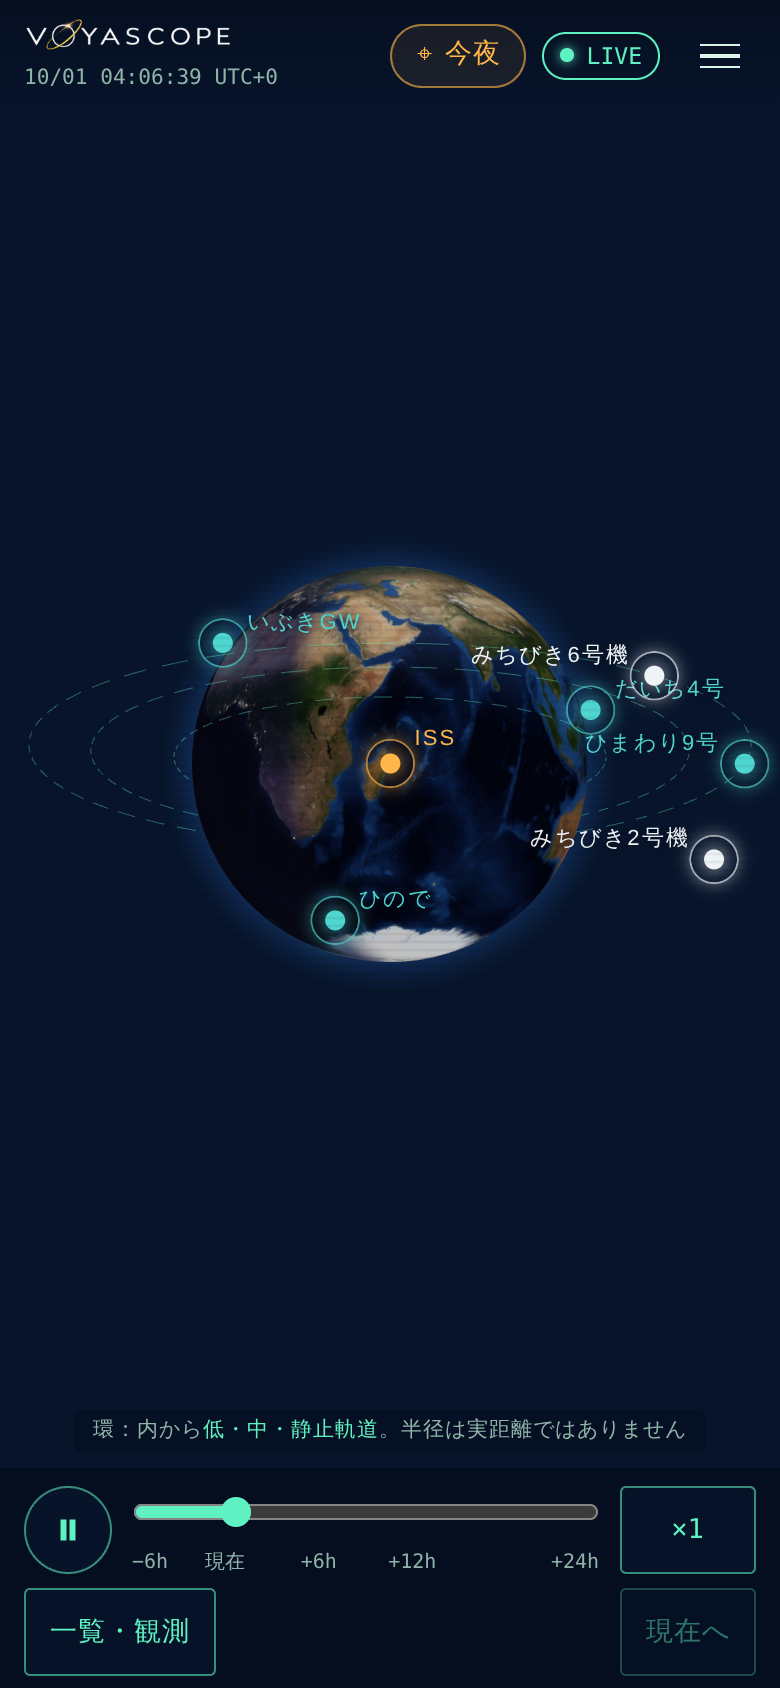
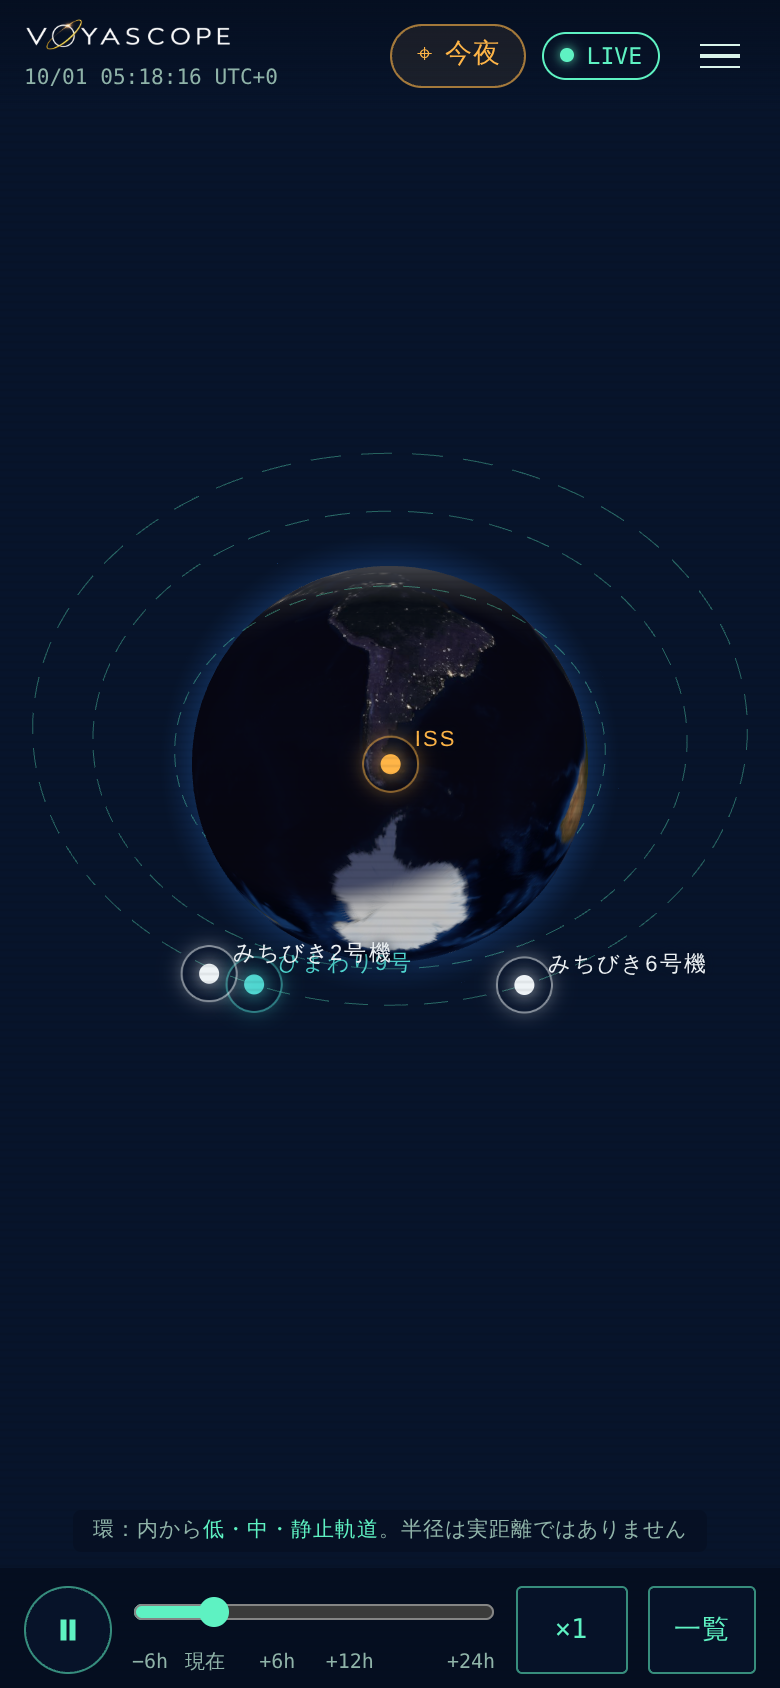
スマホ：下のバーを1行に（一時停止・スライダー・速さ・一覧）
- 「現在へ」は上の LIVE 表示が兼ねる。ずれているときは「↺ +02:03:00」と出て、押すと現在に戻る（押せる範囲44px）
- 「追尾」は詳細の名前の横（× の隣）へ。種類の札を名前の上に置き、名前・英名・NORAD を途中で折らない
- 「一覧・観測」→「一覧」。幅375未満は目盛りを「現在」「+24h」だけに
- 下のバー 110px→60px。幅390×844で操作部と文字は 22%→16%
- PC（幅1440・1024）は位置と大きさが変更前と同じ。LIVE 表示は button になったが見た目は同じ（ずらしているときは PC でも押すと現在に戻る）

Claude-Session: https://claude.ai/code/session_01TJoGGS11jrJK8emrXwBTBf

diff --git a/web/css/style.css b/web/css/style.css
@@ -281,6 +281,8 @@ body { overflow: hidden; }
   color: var(--amber);
   white-space: nowrap;
 }
+.live-badge { background: none; font-family: var(--font-mono); line-height: inherit; }
+.live-badge[data-live="false"] { cursor: pointer; } /* 時刻をずらしているときは、押すと現在に戻る */
 .live-badge[data-live="true"] { border-color: var(--mint); color: var(--mint); }
 .live-badge[data-paused="true"]::after { content: " 停止中"; }
 .live-badge[data-live="true"]::before {
@@ -417,6 +419,18 @@ body { overflow: hidden; }
 .panel-title { font-size: 1.35rem; font-weight: 700; line-height: 1.2; }
 .panel-en { font-size: 0.8rem; font-weight: 400; color: var(--text-dim); letter-spacing: 0.05em; }
 .panel-ja { font-size: 0.9rem; color: var(--mint); }
+.panel-actions { display: flex; gap: 8px; flex: none; }
+.follow-mini {
+  width: 34px;
+  height: 34px;
+  border: 1px solid var(--mint-faint);
+  background: transparent;
+  color: var(--mint);
+  font-size: 0.8rem;
+  border-radius: 6px;
+  cursor: pointer;
+}
+.follow-mini[aria-pressed="true"] { background: var(--mint); color: var(--navy-800); }
 .close {
   flex: none;
   width: 34px;
@@ -872,7 +886,11 @@ dialog.card::backdrop { background: rgba(3, 8, 18, 0.65); backdrop-filter: blur(
   .tonight-chip::after { content: ""; position: absolute; inset: -8px -4px; } /* 押せる範囲を44pxに */
   .tonight-chip .chip-full { position: absolute; width: 1px; height: 1px; overflow: hidden; clip: rect(0 0 0 0); white-space: nowrap; }
   .tonight-chip .chip-short { display: inline; }
-  .live-badge[data-paused="true"]::after { content: none; }
+  /* スマホ：上の表示が「現在へ」を兼ねる。ずれているときは ↺ を付け、押せる範囲を44pxに */
+  .live-badge { position: relative; }
+  .live-badge::after, .live-badge[data-paused="true"]::after { content: ""; position: absolute; inset: -10px -4px; }
+  .live-badge[data-live="false"]::before { content: "↺ "; }
+  #now { display: none; }
   .side-panel {
     --sheet-bg: rgb(7, 20, 43); /* 不透明：上に残る名前の裏に本文が透けないように */
     top: auto;
@@ -922,20 +940,25 @@ dialog.card::backdrop { background: rgba(3, 8, 18, 0.65); backdrop-filter: blur(
     border-bottom: 1px solid var(--panel-border);
     align-items: center;
   }
+  /* 名前の行：種類の札は名前の上に小さく。名前・英名・NORAD は途中で折らない */
   .detail-panel .panel-title { font-size: 1.15rem; }
-  .detail-panel .close { width: 44px; height: 44px; }
+  .detail-panel .panel-title .class-chip { display: table; margin: 0 0 4px; font-size: 0.66rem; padding: 1px 6px; }
+  .detail-panel .panel-head > div:first-child { min-width: 0; }
+  .detail-panel .panel-ja > span { display: inline-block; max-width: 100%; white-space: nowrap; overflow: hidden; text-overflow: ellipsis; vertical-align: bottom; }
+  .detail-panel .close, .detail-panel .follow-mini.narrow-only { display: block; width: 44px; height: 44px; }
+  #follow { display: none; } /* スマホの追尾は、詳細の名前の横（◎） */
   .list-panel { display: none; }
   .list-panel.open { display: block; }
   .list-open { display: inline-block; flex: none; white-space: nowrap; }
   .btn { padding: 0.35em 0.6em; font-size: 0.78rem; min-height: 32px; }
   .wide-only { display: none; }
-  /* 下のバーは2段：再生・時間・速さ／一覧・表示・追尾・現在へ */
+  /* 下のバーは1行：再生・時間・速さ・一覧（現在へは上の LIVE、追尾は詳細の名前の横） */
   .bottom-bar {
     padding: 8px 12px calc(env(safe-area-inset-bottom) + 6px);
     background: rgba(5, 14, 31, 0.94);
     display: grid;
-    grid-template-columns: auto 1fr auto;
-    grid-template-areas: "play slider speed" "ctl ctl now";
+    grid-template-columns: auto 1fr auto auto;
+    grid-template-areas: "play slider speed ctl";
     align-items: center;
     gap: 6px 10px;
   }
@@ -953,7 +976,6 @@ dialog.card::backdrop { background: rgba(3, 8, 18, 0.65); backdrop-filter: blur(
   #app[data-live="false"] #now { border-color: var(--amber); color: var(--amber); box-shadow: 0 0 10px var(--amber-dim); }
   .controls-row { grid-area: ctl; gap: 8px; justify-content: flex-start; flex-wrap: nowrap; }
   .controls-row .fam-legend, .controls-row .rings-toggle { display: none; } /* 一覧のタブと、一覧の下の「環」で切り替える */
-  #app:not(.has-selected) #follow { display: none; }
   .footnote { display: none; } /* 軌道データの日時と「このアプリについて」はメニューの中にある */
   .bottom-bar .warning { grid-column: 1 / -1; }
   /* 一覧を詰めて、カードが多く見えるように */
@@ -979,6 +1001,7 @@ dialog.card::backdrop { background: rgba(3, 8, 18, 0.65); backdrop-filter: blur(
   .tonight-chip { padding: 4px 8px; }
   .tonight-chip .pin { display: none; }
   .scale-note { font-size: 0.6rem; }
+  .ticks span:nth-child(1), .ticks span:nth-child(4), .ticks span:nth-child(5) { display: none; } /* 現在と +24h だけ */
 }
 
 @media (prefers-reduced-motion: reduce) {

diff --git a/web/js/main.js b/web/js/main.js
@@ -386,6 +386,7 @@ function startApp({ craft, land, prefectures }) {
       status: c.status,
       orbitMeta: `取得 ${dateTimeShortJa(new Date(c.orbit.fetched_at))}・基準時刻 ${dateTimeShortJa(new Date(c.orbit.epoch))}（CelesTrak）`,
     });
+    detailBody.querySelector("[data-follow]")?.setAttribute("aria-pressed", String(follow));
     updateDetailLive(true);
   };
 
@@ -410,6 +411,7 @@ function startApp({ craft, land, prefectures }) {
   }
   detailBody.addEventListener("click", (e) => {
     if (e.target.closest("[data-close]")) return closeDetail();
+    if (e.target.closest("[data-follow]")) return setFollow(!follow);
     const t = e.target.closest("[data-tab]");
     if (t) {
       tab = t.dataset.tab;
@@ -504,11 +506,14 @@ function startApp({ craft, land, prefectures }) {
     clock.setPlaying(!clock.playing);
     syncControls();
   });
-  $("#now").addEventListener("click", () => {
+  const backToNow = () => {
     clock.live();
     syncControls();
     if (selected) renderDetail();
-  });
+  };
+  $("#now").addEventListener("click", backToNow);
+  // 上の LIVE 表示も、時刻をずらしているときは押すと現在に戻る（スマホではこれが「現在へ」）
+  $("#live-badge").addEventListener("click", () => !clock.isLive() && backToNow());
   for (const b of speedButtons) {
     b.addEventListener("click", () => {
       clock.setSpeed(Number(b.dataset.speed));
@@ -530,6 +535,7 @@ function startApp({ craft, land, prefectures }) {
   function setFollow(on) {
     follow = on && !!selected;
     followBtn.setAttribute("aria-pressed", String(follow));
+    detailBody.querySelector("[data-follow]")?.setAttribute("aria-pressed", String(follow));
   }
   followBtn.addEventListener("click", () => {
     if (!selected && craft[0]) select(craft[0]);
@@ -650,7 +656,8 @@ function startApp({ craft, land, prefectures }) {
       els.badge.dataset.live = String(live);
       app.dataset.live = String(live);
       els.badge.textContent = live ? "LIVE" : durationJa(clock.offset());
-      els.badge.dataset.paused = String(!live && !clock.playing); // 「停止中」は CSS で足す（スマホでは再生ボタンの形で分かるので出さない）
+      els.badge.dataset.paused = String(!live && !clock.playing);
+      els.badge.setAttribute("aria-label", live ? "いまの時刻を表示中" : `現在に戻る（いまは ${els.badge.textContent}）`); // 「停止中」は CSS で足す（スマホでは再生ボタンの形で分かるので出さない）
       if (!dragging) slider.value = String(Math.round(clock.offset() / 60000));
       for (const c of craft) {
         const n = listEl.querySelector(`[data-alt="${c.id}"]`);

diff --git a/web/index.html b/web/index.html
@@ -51,7 +51,7 @@
       <button type="button" id="tonight-chip" class="tonight-chip" hidden></button>
       <div class="clock-block">
         <span id="sim-time" class="mono">--</span>
-        <span id="live-badge" class="live-badge mono" data-live="true">LIVE</span>
+        <button type="button" id="live-badge" class="live-badge mono" data-live="true" aria-label="いまの時刻を表示中">LIVE</button>
         <button type="button" id="menu-open" class="menu-btn" aria-label="メニュー（このアプリについて）"><span></span><span></span><span></span></button>
       </div>
     </header>
@@ -118,7 +118,7 @@
         <button type="button" id="speed-cycle" class="btn mono speed-cycle narrow-only" aria-label="再生の速さ ×1（押すと切り替わる）">×1</button>
       </div>
       <div class="controls-row">
-        <button type="button" id="list-open" class="btn list-open">一覧・観測</button>
+        <button type="button" id="list-open" class="btn list-open">一覧</button>
         <!-- 家族ごとの表示と環（PC）。スマホでは一覧のタブが地球の表示も絞り、環は一覧の下に置く -->
         <div id="fam-legend" class="fam-legend" role="group" aria-label="家族ごとの表示"></div>
         <label class="toggle rings-toggle"><input type="checkbox" id="rings-toggle" checked> 環</label>

diff --git a/web/js/card.js b/web/js/card.js
@@ -249,7 +249,10 @@ export function renderPanel(el, { card, crewData, now, isSample, family, tab = "
         <div class="panel-title"><span class="class-chip" style="--c:${family.color}">${esc(CLASS_LABELS[card.class] ?? "")}</span><span class="amber">${esc(card.name.ja)}</span></div>
         <div class="panel-ja"><span class="panel-en">${esc(card.name.en)}</span>　<span class="k">NORAD ${card.norad_id}</span></div>
       </div>
-      <button type="button" class="close mono" data-close aria-label="詳細を閉じる">×</button>
+      <div class="panel-actions">
+        <button type="button" class="follow-mini narrow-only" data-follow aria-pressed="false" title="カメラがこの機体を追いかけます">追尾</button>
+        <button type="button" class="close mono" data-close aria-label="詳細を閉じる">×</button>
+      </div>
     </header>
     ${
       showBanner

diff --git a/docs/tasks/007-mobile-ui.md b/docs/tasks/007-mobile-ui.md
@@ -83,6 +83,18 @@ PC版は満足度が高い。スマホで触ると、操作の帯が地球を上
 - PC は変えていない：タブは一覧だけ、下のバーのチェックで地球を絞る（位置と大きさも変更前と同じ）
 - 横向きのスマホでは、半分の高さの詳細が低い（136px）。つまみで全部にできるので、今回はこのまま
 
+## 第3弾（2026-10-01、マージ後に実機で触って）
+
+オーナーの感想：「機体の真上に行く」「速さの1ボタン」が特によい。下端の機能を1行にしたい。
+
+- 下のバーを1行に：一時停止・スライダー・速さ・一覧（110px → 60px）
+- 「現在へ」は上の LIVE 表示が兼ねる。時刻をずらしているときは「↺ +02:03:00」になり、押すと現在に戻る（押せる範囲は44px）。PC の「▶ LIVE」はそのまま
+- 「追尾」は詳細の名前の横（× の隣）へ。種類の札は名前の上に小さく置き、名前・英名・NORAD が途中で折れないようにした
+- 「一覧・観測」は「一覧」に（観測は上の「今夜」からも開ける）
+- スライダーが短くなったので、幅375未満では目盛りを「現在」と「+24h」だけにした
+- 幅390×844で、上下の操作部と文字は 185px（22%）→ 135px（16%）
+- PC（幅1440・1024）は位置と大きさが変更前と同じ
+
 ## 完了条件
 
 - `npm test` と `npm run validate` が通る
